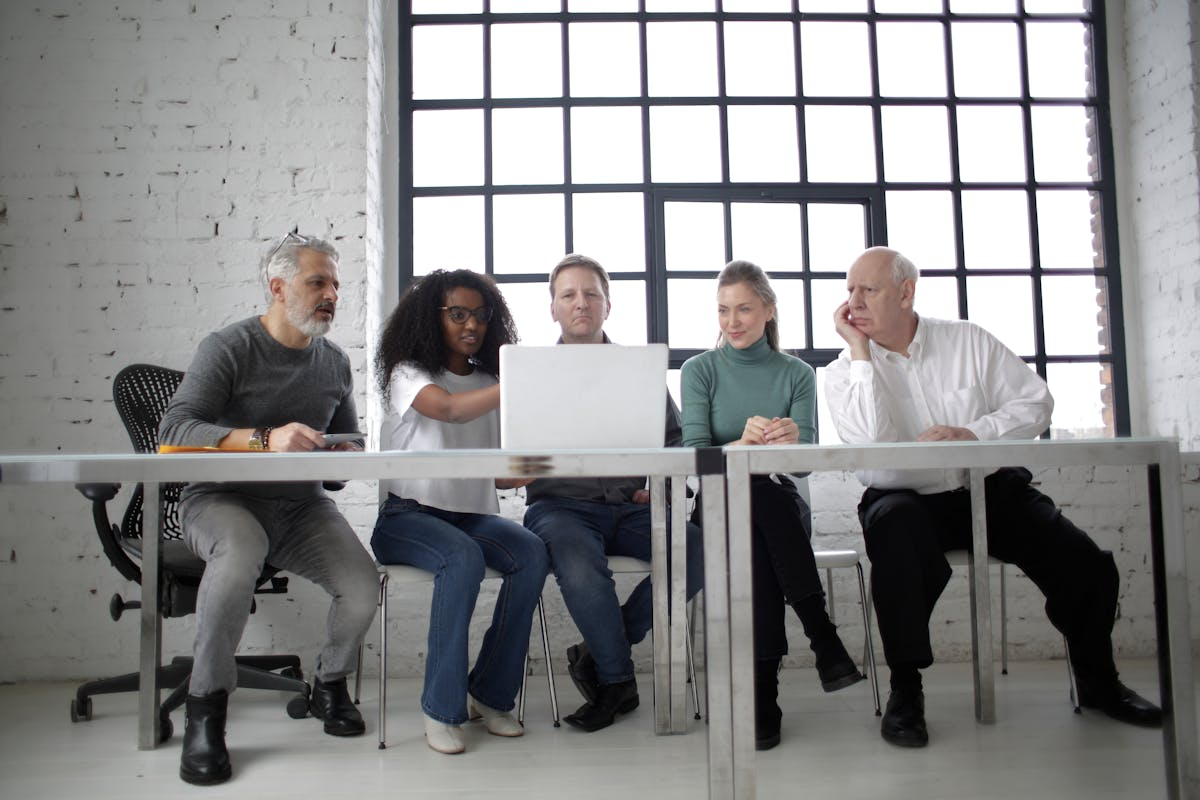
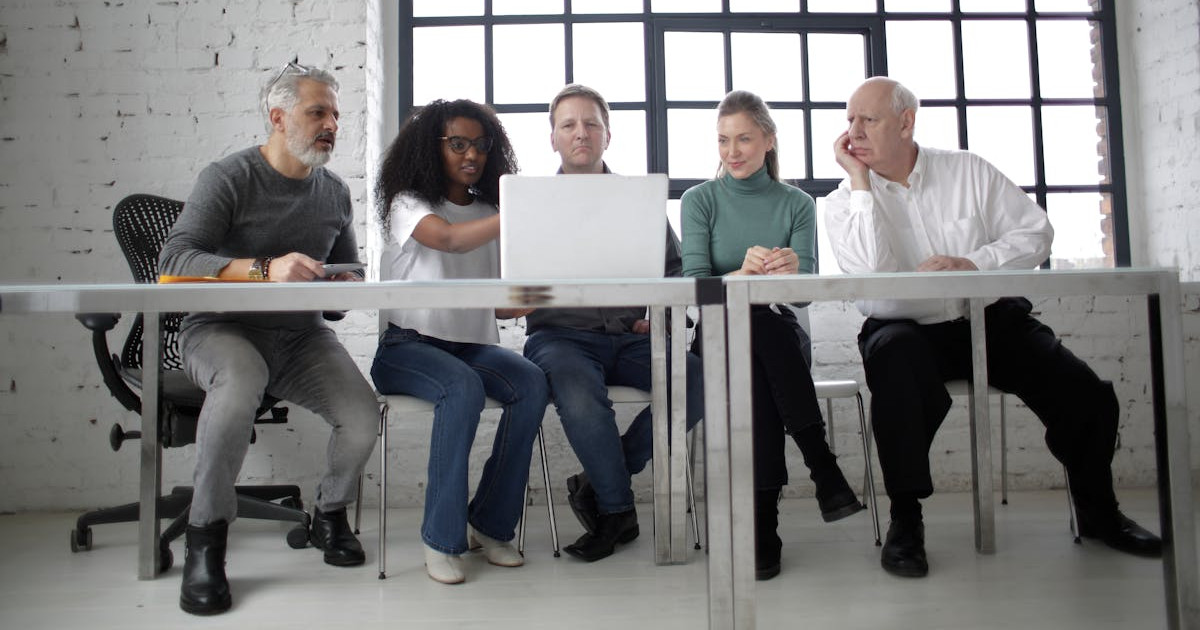
Resize images, update credit link

diff --git a/_posts/2024-08-19-why-your-appsec-strategy-needs-continuous-testing.md b/_posts/2024-08-19-why-your-appsec-strategy-needs-continuous-testing.md
@@ -14,7 +14,7 @@ image:
   feature: blog/14/feature.jpg # Upload a 1200x630px image
   hero: blog/14/header.jpg # Upload a 1920x1008 image
   credit: Andrea Piacquadio # Include photo authors name
-  creditlink: https://images.pexels.com/photos/3931511/pexels-photo-3931511.jpeg # Include link to original photo
+  creditlink: https://www.pexels.com/photo/group-of-people-looking-at-the-laptop-3931511/ # Include link to original photo
 hero-vertical: true
 hero-wrapper-padding: "pb-24"
 comments: true
@@ -24,21 +24,21 @@ comments: true
 
 If you're running a business with any kind of online presence, you're probably already familiar with penetration testing and vulnerability assessments. While both do assist your application security (AppSec) team in identifying system weaknesses before attackers can exploit them, they also fall short in adapting to today’s application development practices. Modern development typically occurs over two-week "sprints" before new code is pushed to production. It takes only about 15 minutes after a new service or application goes live for an attacker to begin probing the environment. With point-in-time penetration testing performed only once a year, it could take just a couple of months for new vulnerabilities to be introduced. Vulnerability assessments on the other hand, are automated but require tuning and are most effective at testing individual components, not applications as a whole. They also tend to cause "alert fatigue" with their high false-positive rate.
 
-For this reason, we want to introduce a third choice. Something that captures the best of both worlds plus some extra benefits: continuous testing. 
+For this reason, we want to introduce a third choice. Something that captures the best of both worlds plus some extra benefits: continuous testing.
 
 # What is Continuous Testing?
 
-Continuous testing is the ongoing process of evaluating your application for security vulnerabilities. It combines automated assessments with manual testing to provide comprehensive coverage and depth. The best part is that continuous testing is designed to keep up with rapid application development cycles and frequent deployments. 
+Continuous testing is the ongoing process of evaluating your application for security vulnerabilities. It combines automated assessments with manual testing to provide comprehensive coverage and depth. The best part is that continuous testing is designed to keep up with rapid application development cycles and frequent deployments.
 
-At GlitchSecure, our continuous testing service integrates a variety of commercial and custom tools to identify vulnerabilities and correlate their results. Different tools specialise in different areas, and we aim to ensure that we capture the full scope of your application. We then follow this up with a manual review to verify findings and eliminate false positives. We like to be proof-positive, which means that we only report on things that our assessment team can actively exploit. This approach allows us to provide your team with actionable insights and clear guidance on where attackers might be trying to get in. 
+At GlitchSecure, our continuous testing service integrates a variety of commercial and custom tools to identify vulnerabilities and correlate their results. Different tools specialise in different areas, and we aim to ensure that we capture the full scope of your application. We then follow this up with a manual review to verify findings and eliminate false positives. We like to be proof-positive, which means that we only report on things that our assessment team can actively exploit. This approach allows us to provide your team with actionable insights and clear guidance on where attackers might be trying to get in.
 
 # What Continuous Testing can do for You
 
-As we mentioned, continuous testing combines the benefits of penetration testing and vulnerability assessments, along with some additional advantages. Let’s dive into what those extras are: 
+As we mentioned, continuous testing combines the benefits of penetration testing and vulnerability assessments, along with some additional advantages. Let’s dive into what those extras are:
 
 1. **Ongoing Visibility**: Unlike annual penetration testing, continuous testing provides ongoing visibility into your environment. This enables you to identify and address vulnerabilities as they arise, rather than waiting for the next annual test. This ongoing visibility allows your team to be proactive, rather than reactive, in detecting and remediating issues.
 
-2. **Reduced False-positives**: Continuous testing tools are tuned to your specific application instead of applying a generalised, "one-size-fits-all" approach. By combining automated tools with manual review, continuous testing significantly reduces the noise of false positives that often plague vulnerability assessments. 
+2. **Reduced False-positives**: Continuous testing tools are tuned to your specific application instead of applying a generalised, "one-size-fits-all" approach. By combining automated tools with manual review, continuous testing significantly reduces the noise of false positives that often plague vulnerability assessments.
 
 3. **Comprehensive Coverage**: Continuous testing offers broader coverage of scenarios and attack vectors compared to point-in-time assessments, giving you a more complete picture of your security posture. On top of that, the dynamic nature of continuous testing allows it to adapt to nearly any environment. This means that as your systems or environment change, your testing evolves with them.
 
@@ -62,5 +62,4 @@ Use continuous testing and penetration testing together to apply a layered appro
 
 By incorporating continuous testing into your AppSec strategy, you can keep pace with rapid development cycles, catch vulnerabilities early, and maintain a robust security posture. At GlitchSecure, we've seen firsthand how continuous testing can transform an organisation's security approach. It's not just about finding vulnerabilities; it's about building a security-first culture that can adapt to emerging threats.
 
-Ready to take your security to the next level? Let's chat about how we can tailor a continuous testing strategy to your specific needs. 
-
+Ready to take your security to the next level? Let's chat about how we can tailor a continuous testing strategy to your specific needs.
